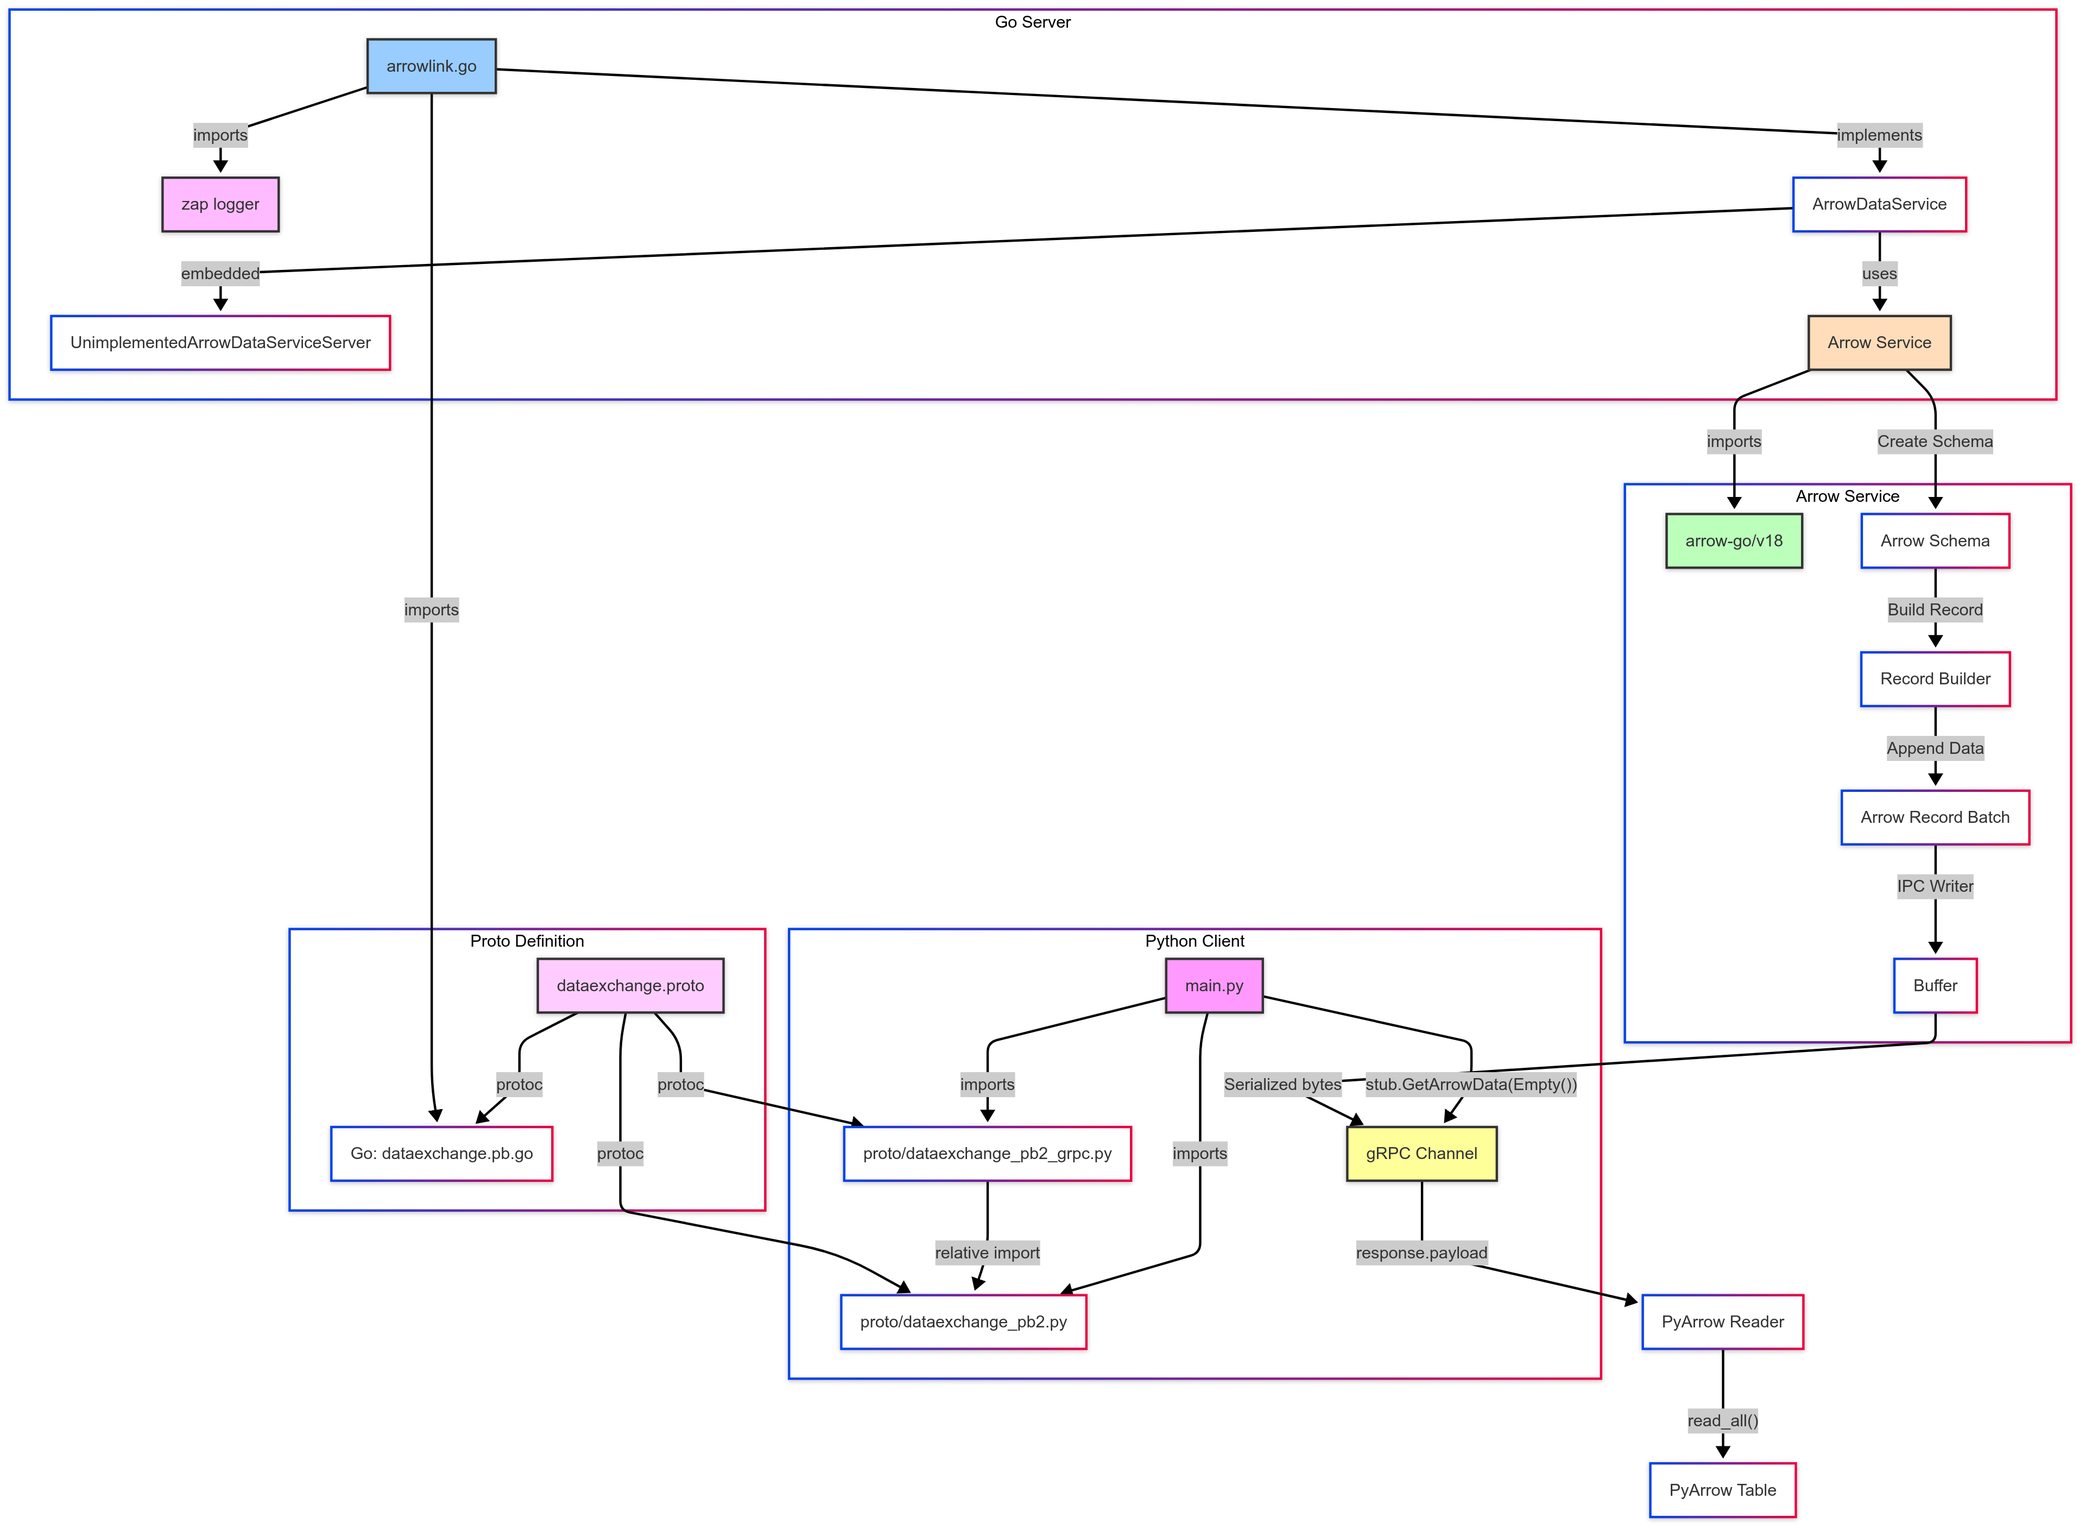
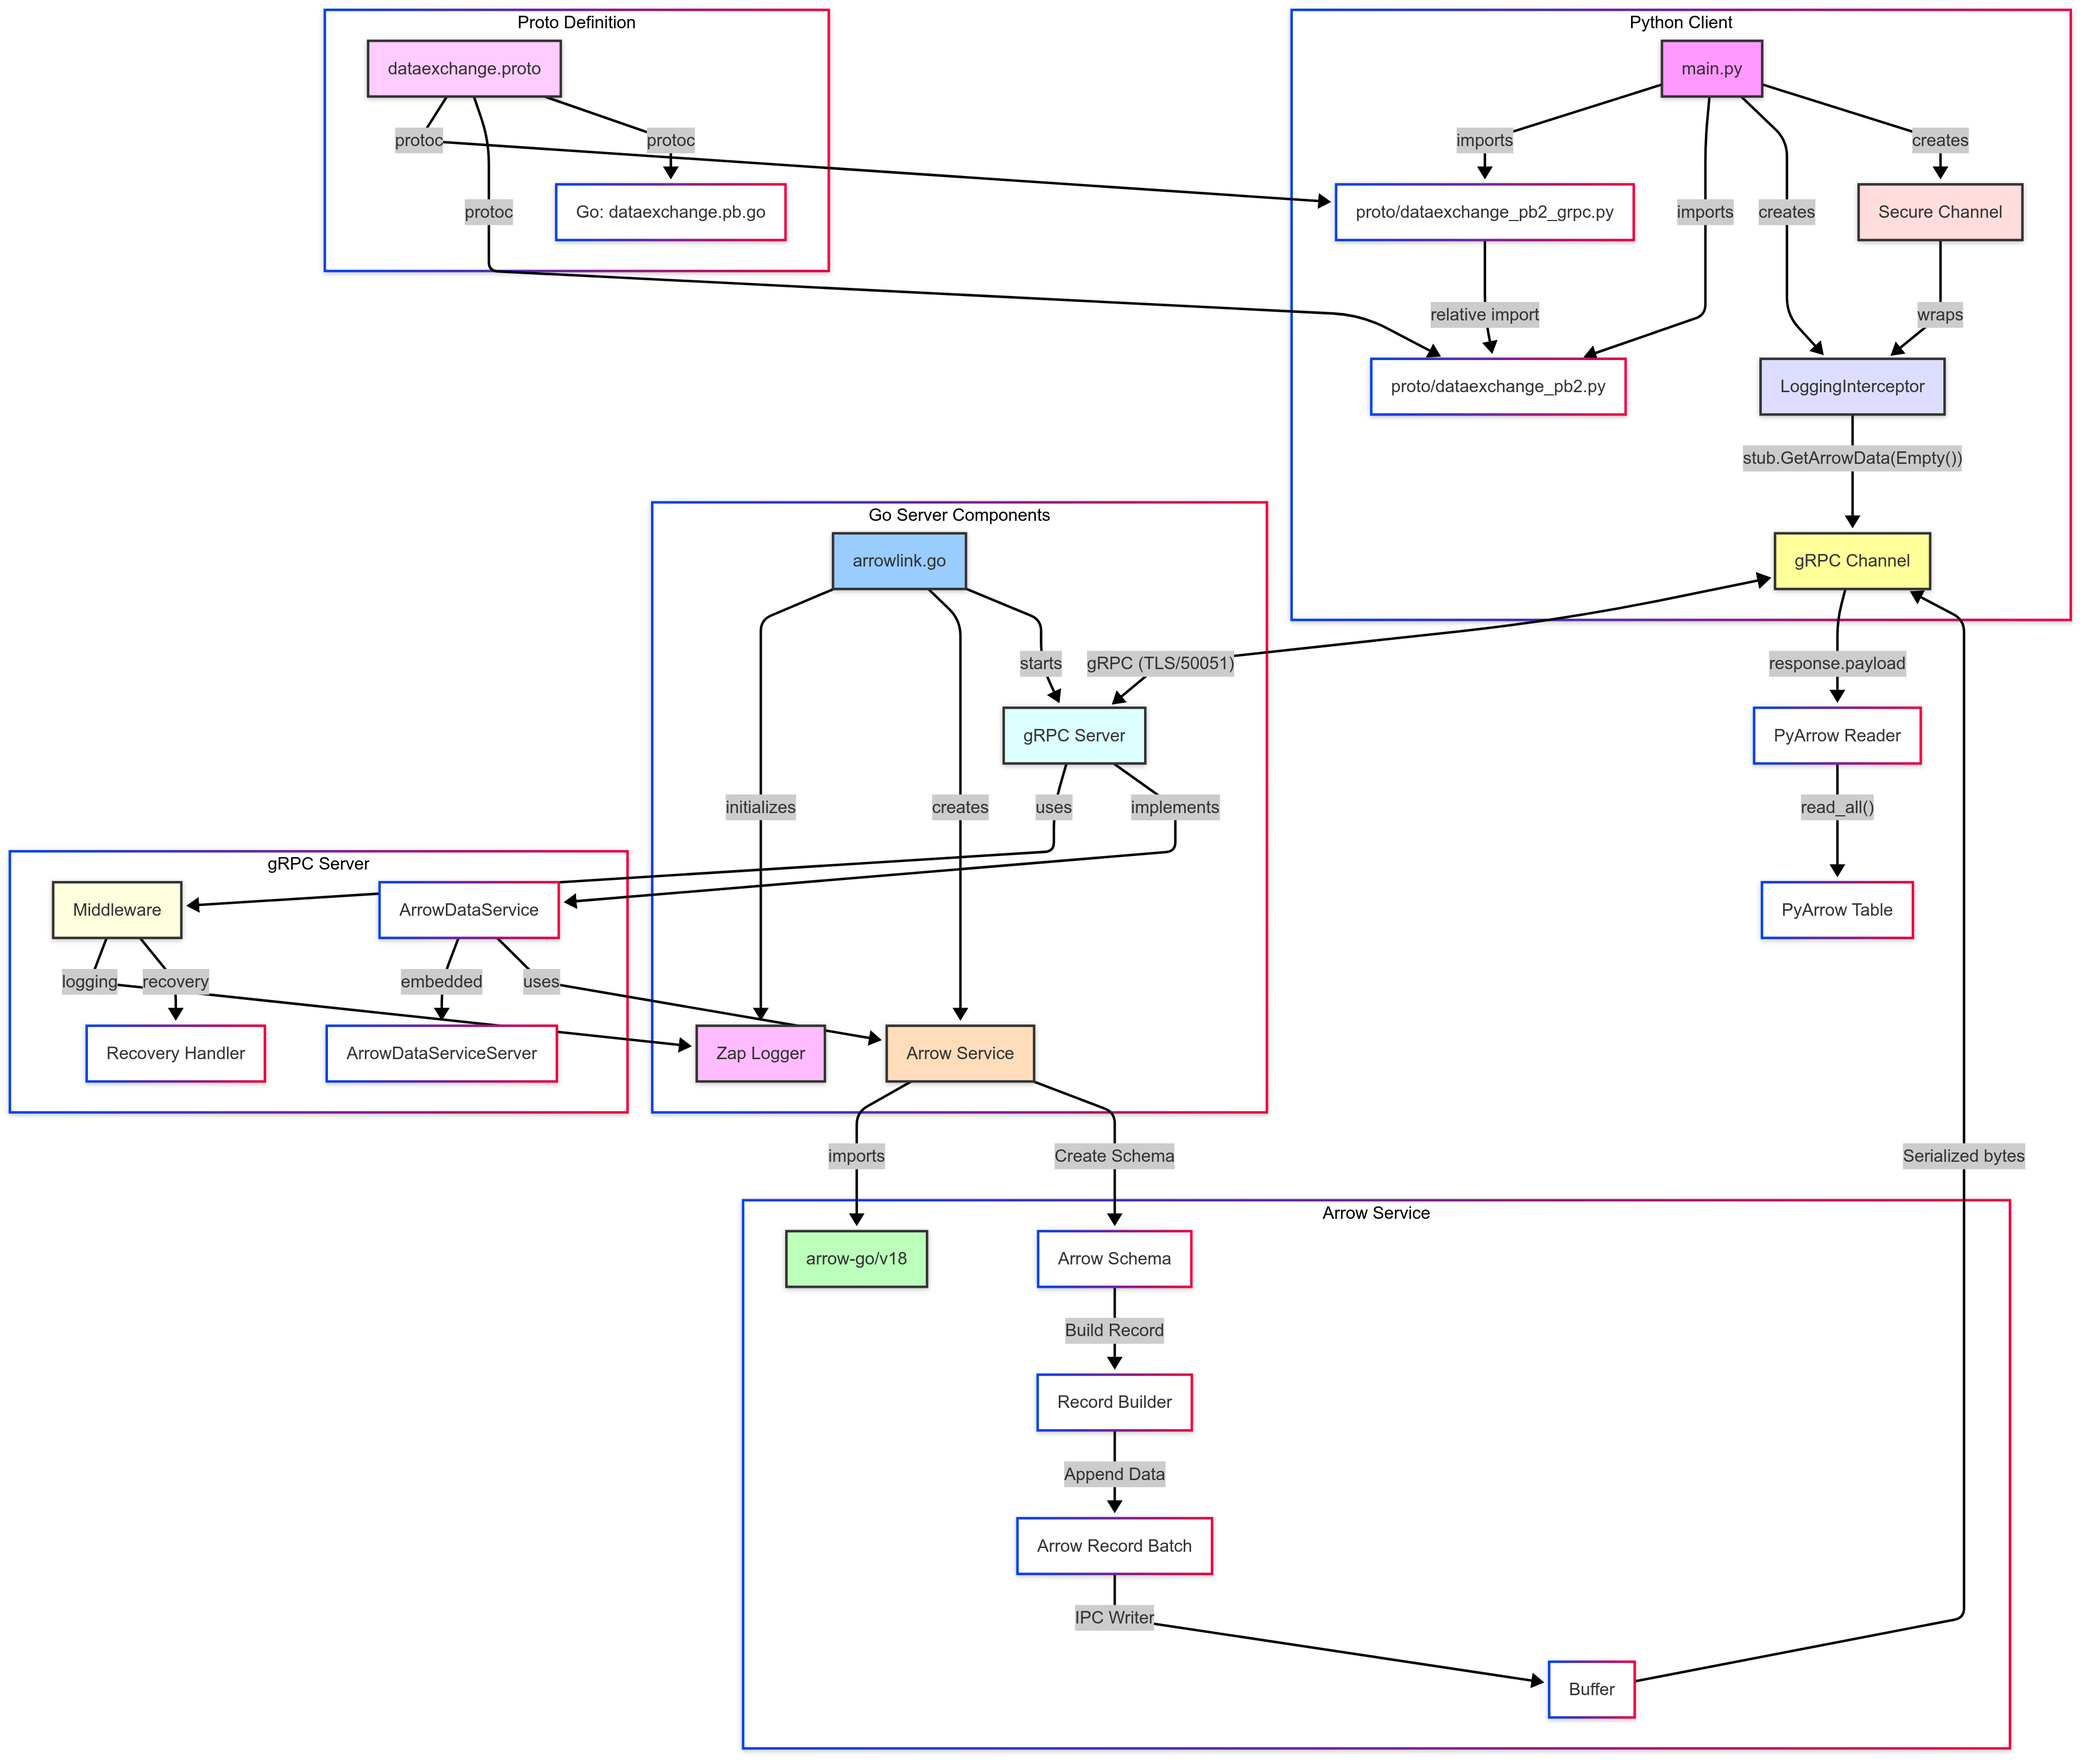
Simplify

diff --git a/grpcserver/grpcserver.go b/grpcserver/grpcserver.go
@@ -6,26 +6,43 @@ import (
 	"os/signal"
 	"syscall"
 
+	"github.com/TFMV/ArrowLink/arrow"
+	pb "github.com/TFMV/ArrowLink/proto/dataexchange"
 	"go.uber.org/zap"
 
 	grpc_middleware "github.com/grpc-ecosystem/go-grpc-middleware"
 	grpc_zap "github.com/grpc-ecosystem/go-grpc-middleware/logging/zap"
 	grpc_recovery "github.com/grpc-ecosystem/go-grpc-middleware/recovery"
-
-	pb "github.com/TFMV/ArrowLink/proto/dataexchange"
 	"google.golang.org/grpc"
 )
 
+// Server implements the ArrowDataServiceServer interface and holds an arrow service instance.
 type Server struct {
 	pb.ArrowDataServiceServer
-	logger *zap.Logger
+	logger       *zap.Logger
+	arrowService arrow.ArrowService
 }
 
-func NewServer(logger *zap.Logger) *Server {
-	return &Server{logger: logger}
+// NewServer creates a new Server instance.
+func NewServer(logger *zap.Logger, arrowService arrow.ArrowService) *Server {
+	return &Server{
+		logger:       logger,
+		arrowService: arrowService,
+	}
 }
 
-func StartGRPCServer(address string, logger *zap.Logger) {
+// GetArrowData retrieves the Arrow data and streams it to the client.
+func (s *Server) GetArrowData(req *pb.Empty, stream pb.ArrowDataService_GetArrowDataServer) error {
+	data, err := s.arrowService.GetData()
+	if err != nil {
+		s.logger.Error("failed to get arrow data", zap.Error(err))
+		return err
+	}
+	return stream.Send(&pb.ArrowData{Payload: data})
+}
+
+// StartGRPCServer sets up and runs the gRPC server with middleware and graceful shutdown.
+func StartGRPCServer(address string, logger *zap.Logger, arrowService arrow.ArrowService) {
 	grpc_zap.ReplaceGrpcLogger(logger)
 
 	opts := []grpc.ServerOption{
@@ -40,13 +57,14 @@ func StartGRPCServer(address string, logger *zap.Logger) {
 	}
 
 	grpcServer := grpc.NewServer(opts...)
-	pb.RegisterArrowDataServiceServer(grpcServer, NewServer(logger))
+	pb.RegisterArrowDataServiceServer(grpcServer, NewServer(logger, arrowService))
 
 	lis, err := net.Listen("tcp", address)
 	if err != nil {
 		logger.Fatal("failed to listen", zap.Error(err))
 	}
 
+	// Run server in a separate goroutine.
 	go func() {
 		logger.Info("gRPC server is running", zap.String("address", address))
 		if err := grpcServer.Serve(lis); err != nil {
@@ -54,6 +72,7 @@ func StartGRPCServer(address string, logger *zap.Logger) {
 		}
 	}()
 
+	// Listen for termination signals to gracefully shut down.
 	quit := make(chan os.Signal, 1)
 	signal.Notify(quit, os.Interrupt, syscall.SIGTERM)
 	<-quit

diff --git a/arrowlink.go b/arrowlink.go
@@ -1,30 +1,10 @@
 package main
 
 import (
-	"log"
-	"net"
-
 	"github.com/TFMV/ArrowLink/arrow"
-	pb "github.com/TFMV/ArrowLink/proto/dataexchange"
+	"github.com/TFMV/ArrowLink/grpcserver"
 	"go.uber.org/zap"
-	"google.golang.org/grpc"
 )
-
-type server struct {
-	pb.UnimplementedArrowDataServiceServer
-	logger       *zap.Logger
-	arrowService arrow.ArrowService
-}
-
-func (s *server) GetArrowData(req *pb.Empty, stream pb.ArrowDataService_GetArrowDataServer) error {
-	data, err := s.arrowService.GetData()
-	if err != nil {
-		s.logger.Error("failed to get arrow data", zap.Error(err))
-		return err
-	}
-
-	return stream.Send(&pb.ArrowData{Payload: data})
-}
 
 func main() {
 	// Create zap logger (production configuration)
@@ -37,21 +17,6 @@ func main() {
 	// Create arrow service
 	arrowService := arrow.NewArrowService()
 
-	// Create listener
-	lis, err := net.Listen("tcp", ":50051")
-	if err != nil {
-		log.Fatalf("failed to listen: %v", err)
-	}
-
-	// Create gRPC server
-	s := grpc.NewServer()
-	pb.RegisterArrowDataServiceServer(s, &server{
-		logger:       logger,
-		arrowService: arrowService,
-	})
-
-	logger.Info("Starting gRPC server on :50051")
-	if err := s.Serve(lis); err != nil {
-		logger.Fatal("failed to serve", zap.Error(err))
-	}
+	// Start the gRPC server with our arrowService injected.
+	grpcserver.StartGRPCServer(":50051", logger, arrowService)
 }

diff --git a/arrow/service.go b/arrow/service.go
@@ -44,7 +44,7 @@ func (s *arrowService) GetData() ([]byte, error) {
 	record := builder.NewRecord()
 	defer record.Release()
 
-	// Serialize record
+	// Serialize record using Arrow IPC
 	var buf bytes.Buffer
 	writer := ipc.NewWriter(&buf, ipc.WithSchema(schema))
 	if err := writer.Write(record); err != nil {
